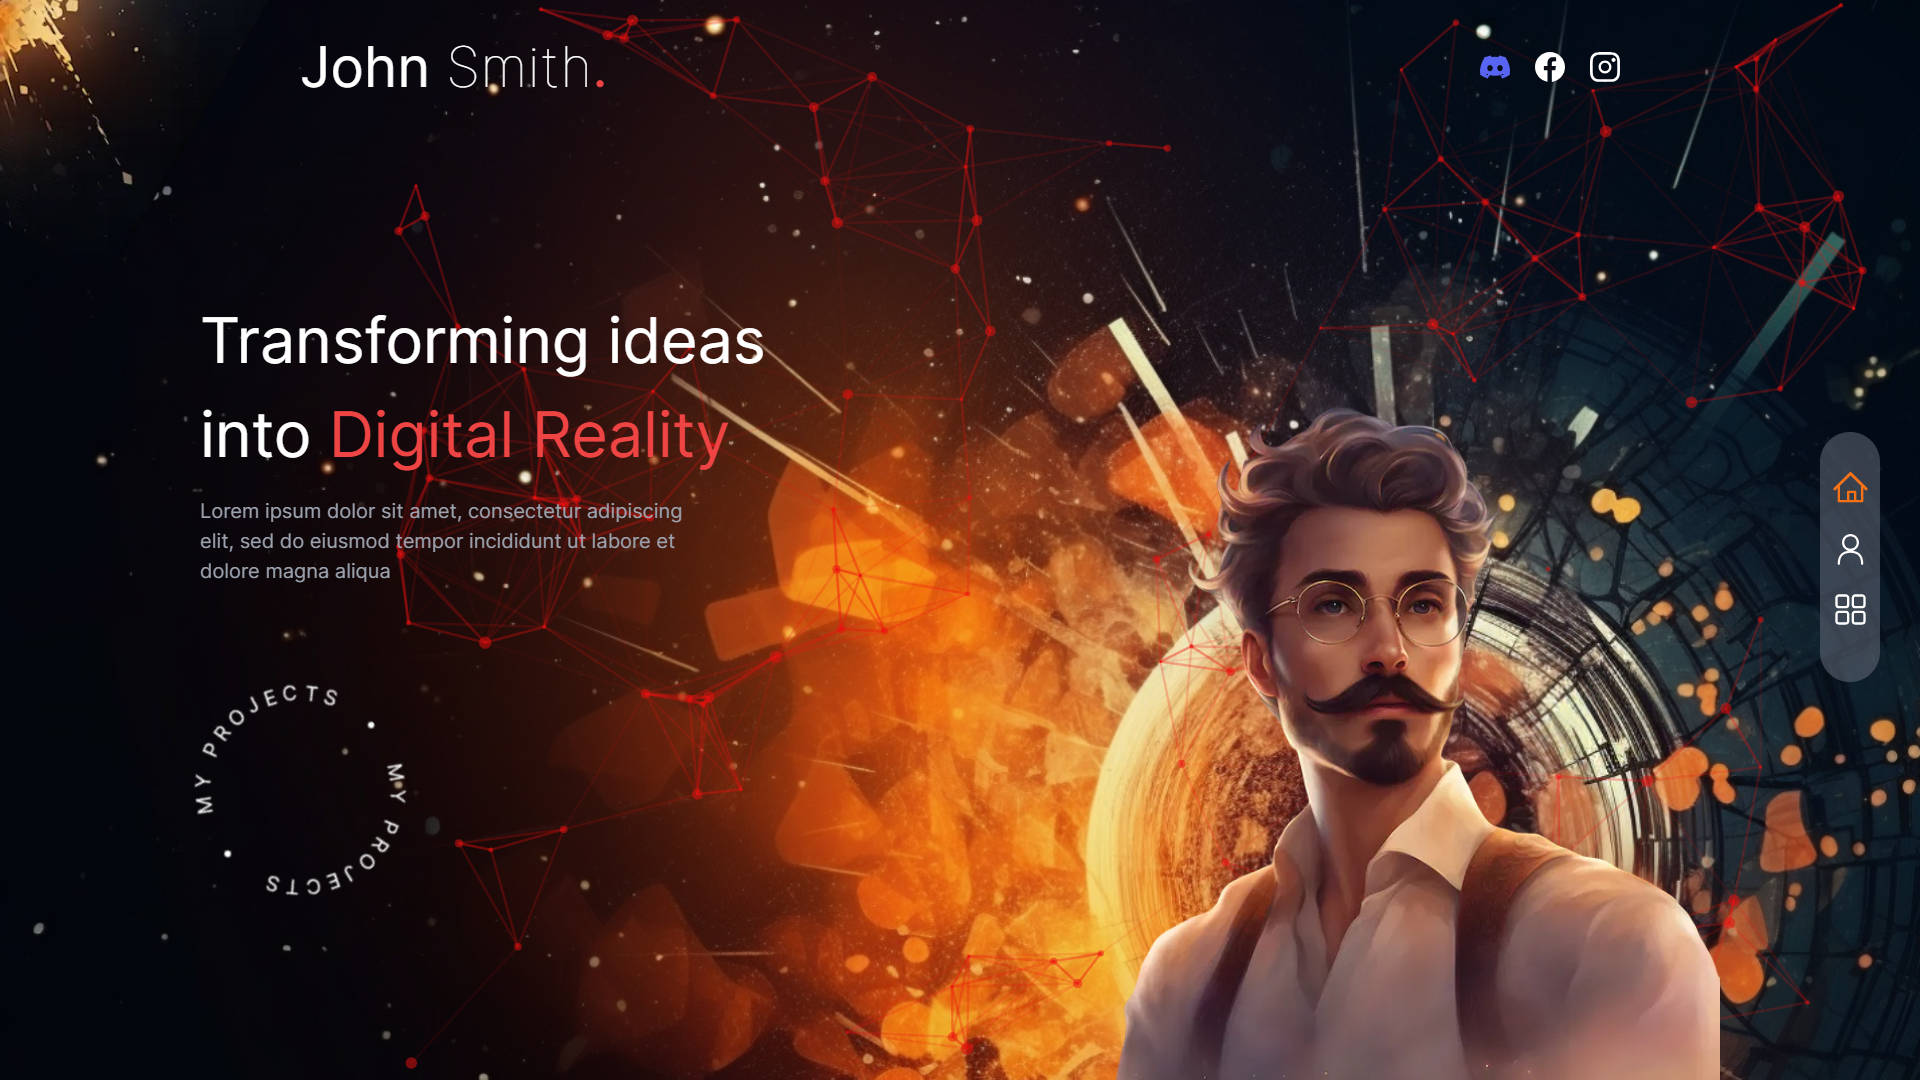
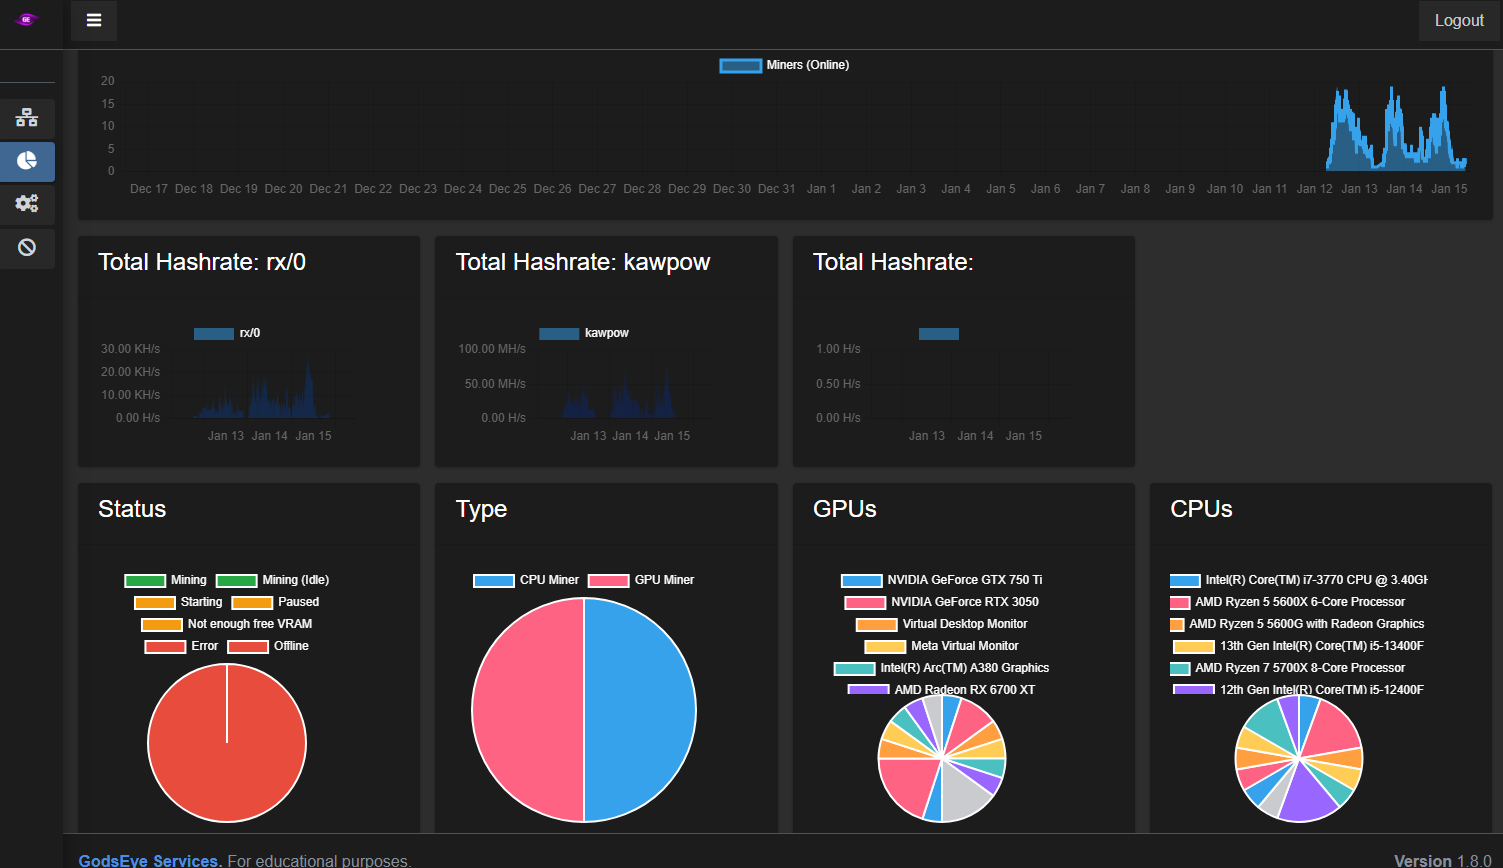
both

diff --git a/constants/index.ts b/constants/index.ts
@@ -1,5 +1,6 @@
-import { FaYoutube, FaFacebook } from "react-icons/fa";
+import { FaYoutube, FaFacebook, FaDiscord } from "react-icons/fa";
 import {
+
   RxDiscordLogo,
   RxGithubLogo,
   RxInstagramLogo,
@@ -92,17 +93,17 @@ export const SOCIALS = [
   {
     name: "Instagram",
     icon: RxInstagramLogo,
-    link: "https://instagram.com",
+    link: "https://instagram.com/GodsEyeGroup",
   },
   {
-    name: "Facebook",
-    icon: FaFacebook,
-    link: "https://facebook.com",
+    name: "Discord",
+    icon: FaDiscord,
+    link: "https://discord.com",
   },
   {
     name: "Twitter",
     icon: RxTwitterLogo,
-    link: "https://twitter.com",
+    link: "https://x.com/GodsEyeGroup",
   },
 ] as const;
 
@@ -259,12 +260,11 @@ export const OTHER_SKILL = [
 
 export const PROJECTS = [
   {
-    title: "Modern Next.js 14 Portfolio",
+    title: "GE | Crypto Client Panel",
     description:
-      'Embark on a journey through my professional evolution with the "Modern Next.js Portfolio" - a dynamic showcase of my skills, experiences, and passion for web development. Crafted with precision and powered by Next.js, this portfolio is more than just a static display; it\'s an immersive experience that reflects the cutting edge of modern web technologies.',
-    image: "/projects/project-1.png",
-    link: "https://example.com",
-  },
+      'GodsEye Crypto Client Panel is an advanced management interface tailored for efficient cryptocurrency mining operations. Designed for enthusiasts and professionals, this platform simplifies the deployment, monitoring, and optimization of mining activities across multiple devices and networks.',
+    image: "/projects/project-1.png"
+  },/**
   {
     title: "Interactive Cards Portfolio",
     description:
@@ -278,7 +278,7 @@ export const PROJECTS = [
       'Embark on an interstellar journey with my "Space Themed Website", a mesmerizing space-themed website that invites you to explore the cosmic wonders beyond our world. Immerse yourself in an awe-inspiring digital experience that blends cutting-edge design with the mysteries of the universe.',
     image: "/projects/project-3.png",
     link: "https://example.com",
-  },
+  },   */
 ] as const;
 
 export const FOOTER_DATA = [
